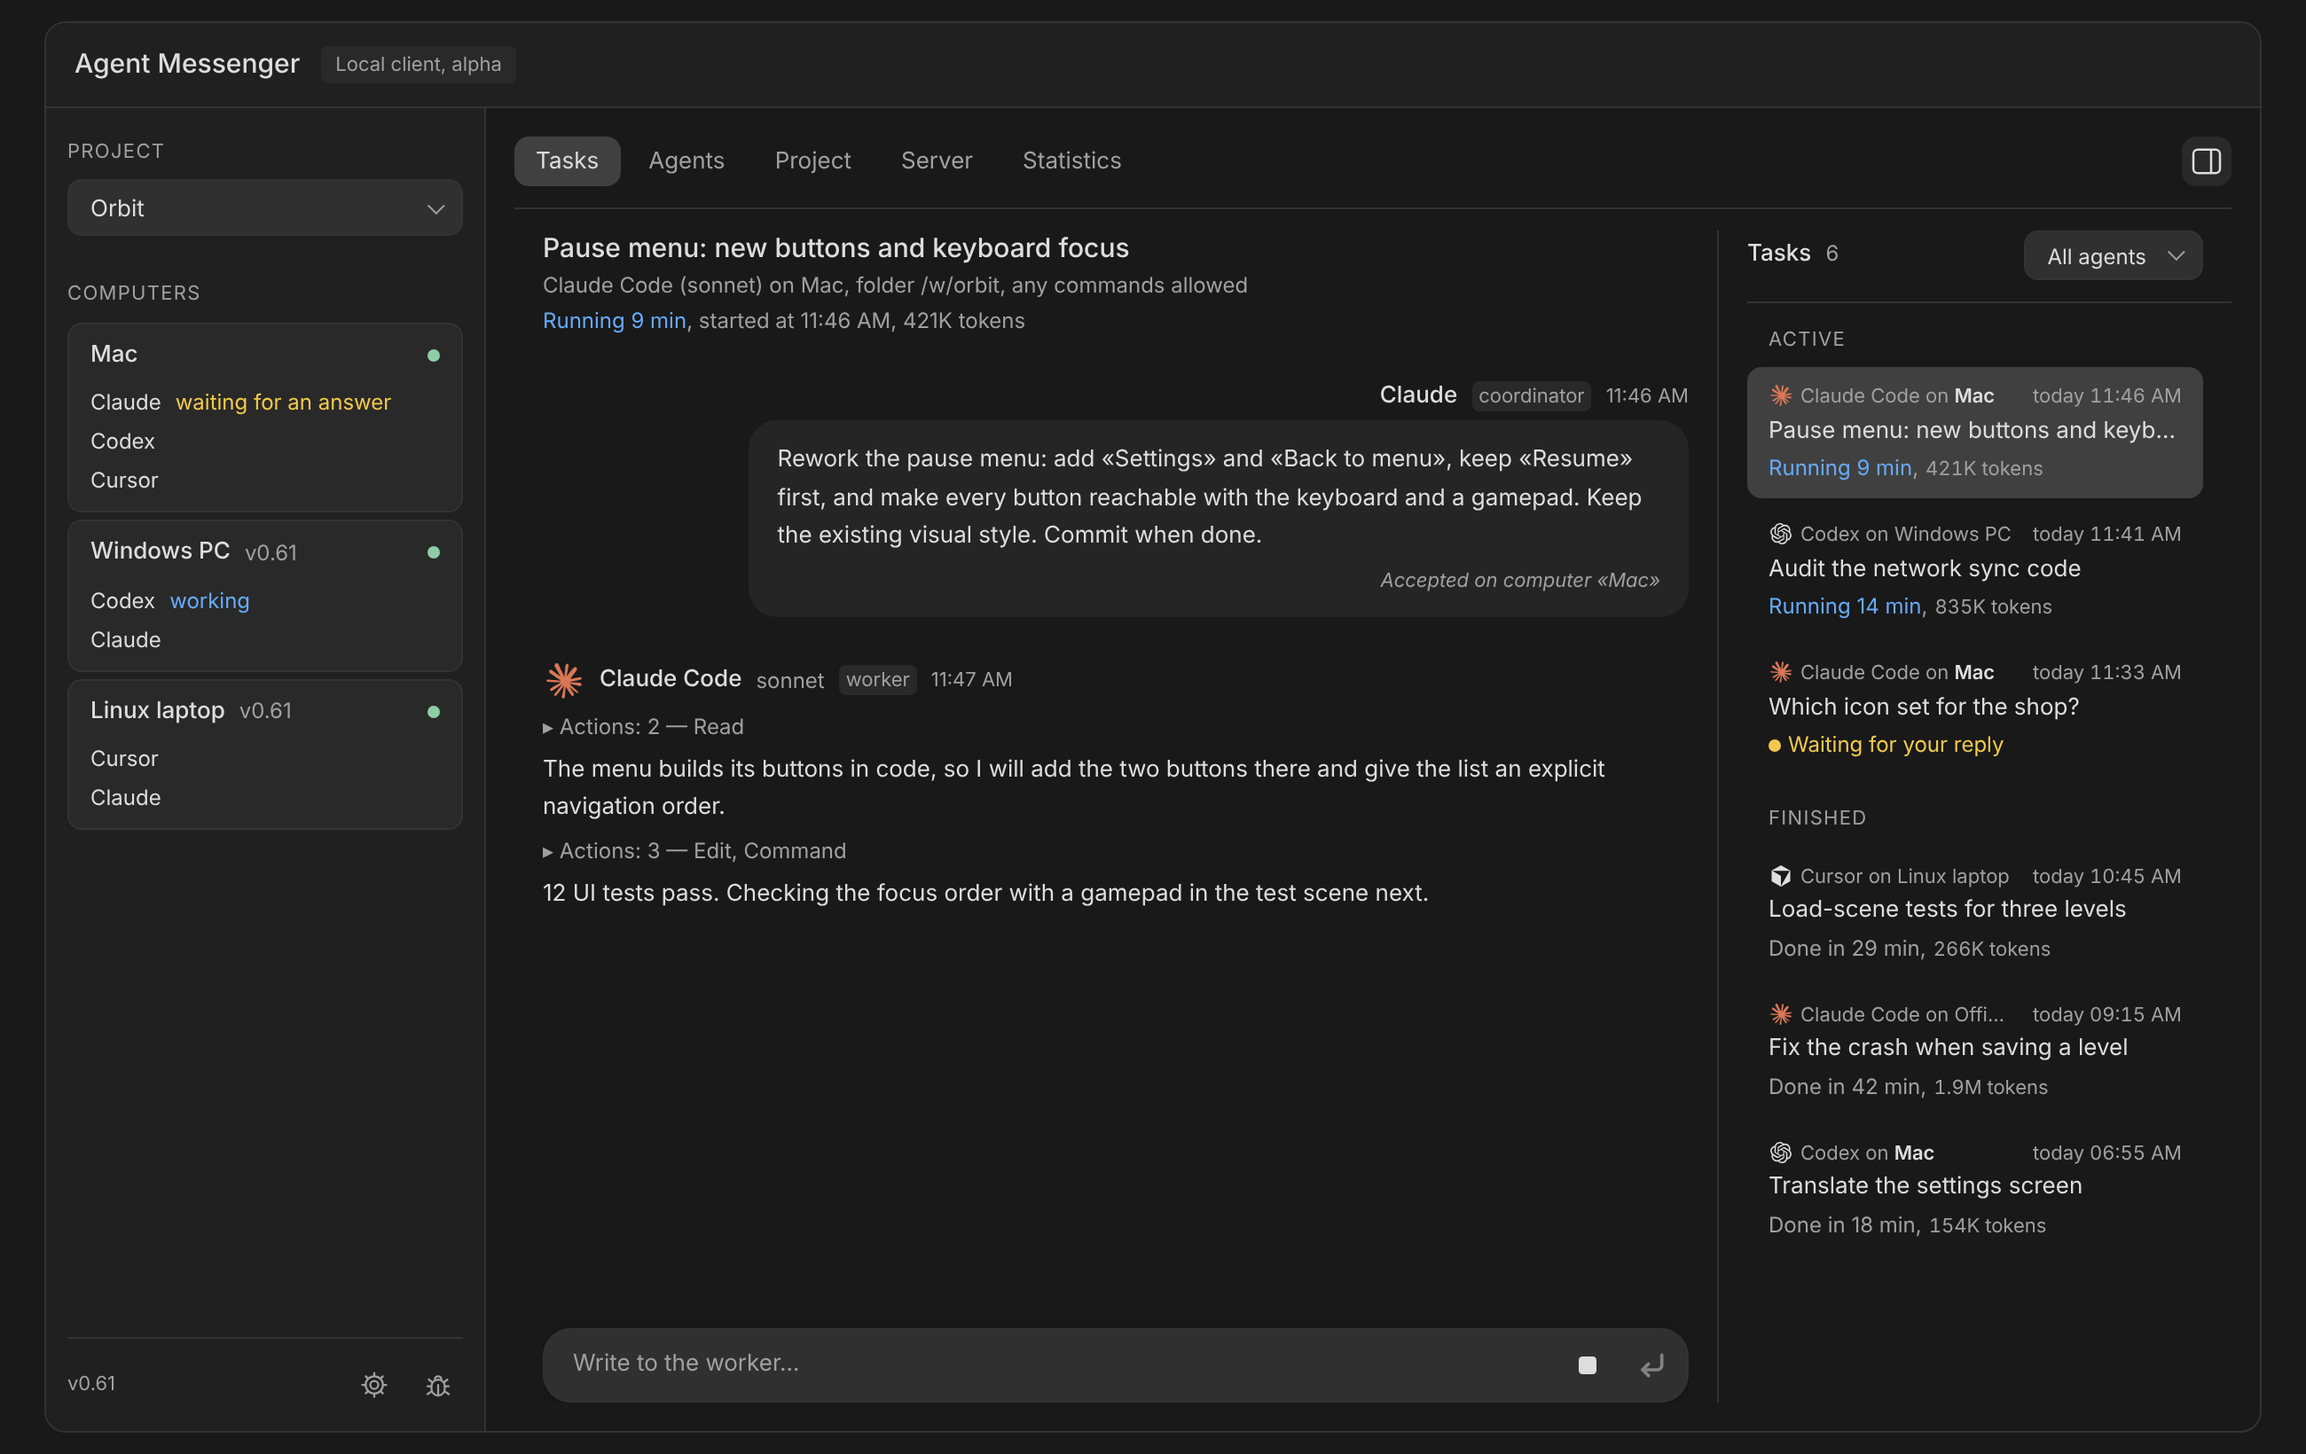
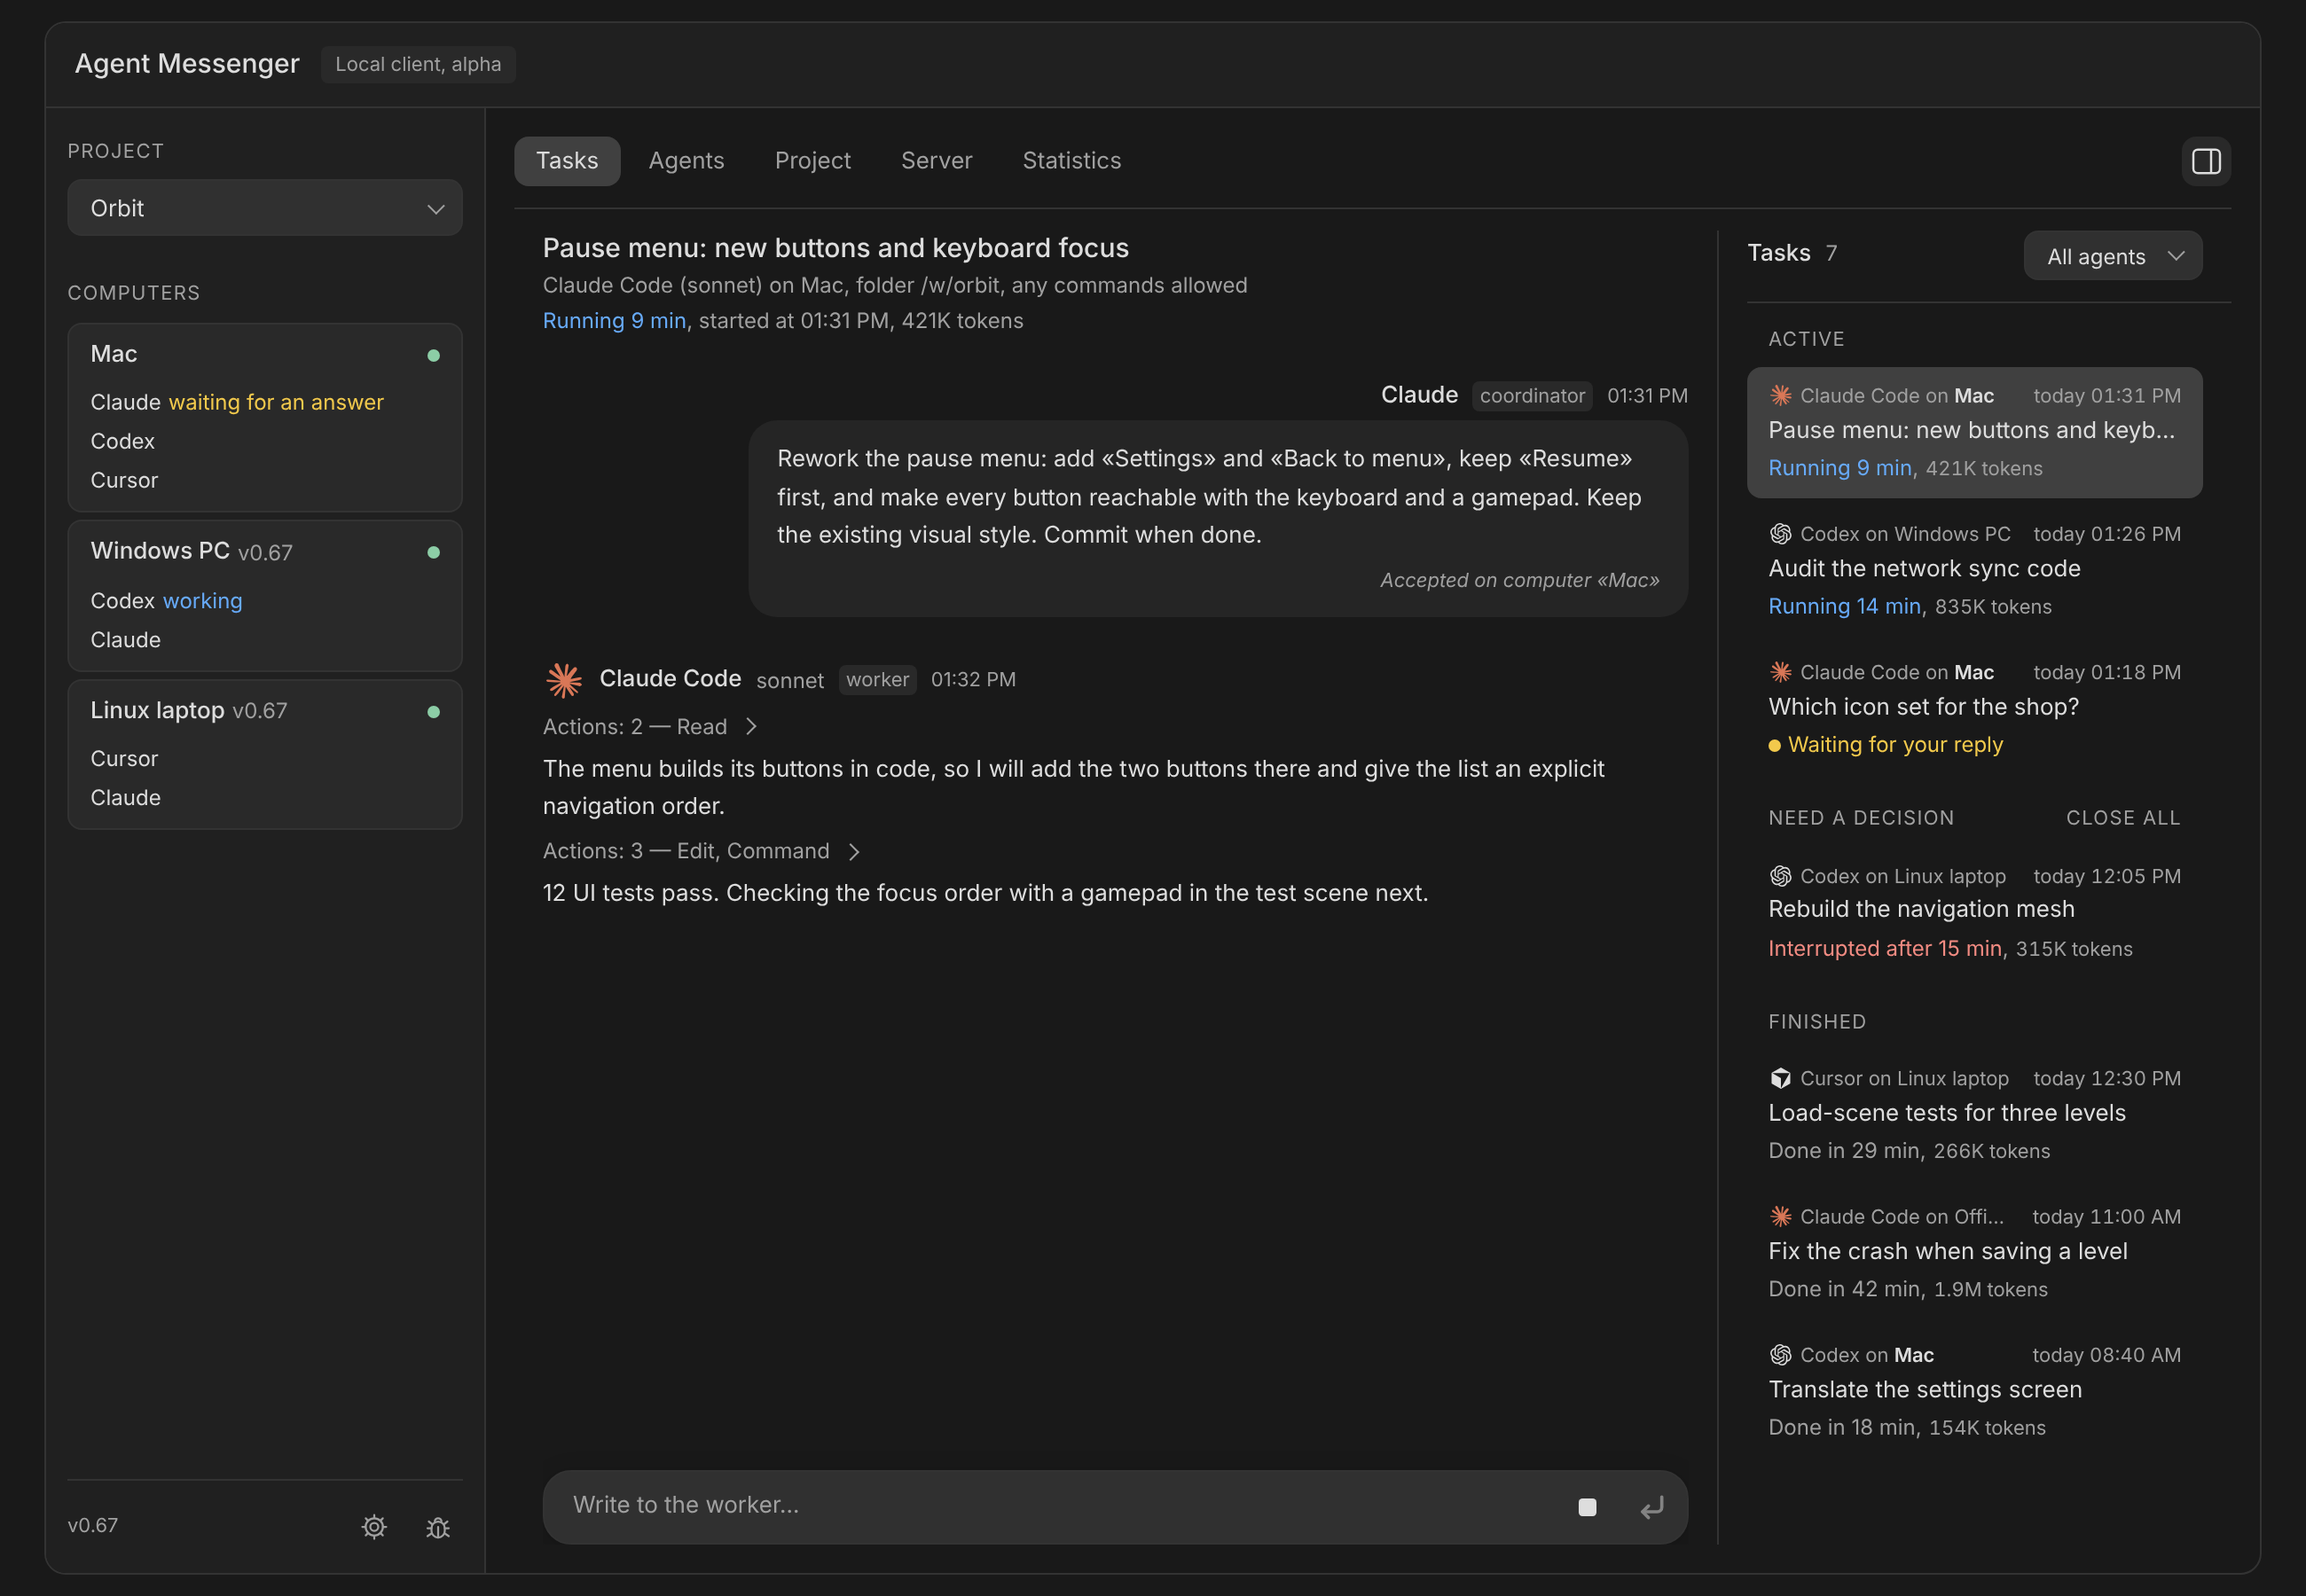
docs: README screenshots and features for 0.67 (WIP)
The window screenshots are retaken with made-up data on the current
window (0.67, with «Требуют решения»). The feature list mentions the
background watch, notes to remote workers and delayed replies; the
status table no longer lists waking the coordinator as missing.

Claude-Session: https://claude.ai/code/session_014S1rtUzdGcVZ1cQoiZnrAj

diff --git a/README.md b/README.md
@@ -25,9 +25,9 @@ One coordinator agent hands tasks to worker agents (Claude Code, Codex, Cursor A
 
 ## What it does
 
-- **Coordinator and workers.** You talk to a coordinator in Claude Code. It starts tasks with `start_task`; each task runs as its own worker session of Claude Code, Codex or Cursor in the project folder, and reports back.
+- **Coordinator and workers.** You talk to a coordinator in Claude Code. It starts tasks with `start_task`; each task runs as its own worker session of Claude Code, Codex or Cursor in the project folder, and reports back. While it is idle, a background watch wakes its chat when a worker reports or asks something; it can also write to a running worker, on any computer.
 - **Several computers.** One computer runs the server, the others join it with a short code. The coordinator sees every computer's agents, their models and limits, and can start a task on any of them. Tasks keep their computer when the server moves to another machine.
-- **One window for everything.** Every task of every computer with its live progress, tokens and time. You answer a worker's question, write to a running worker, stop a task or close a stuck one.
+- **One window for everything.** Every task of every computer with its live progress, tokens and time. You answer a worker's question, write to a running worker, stop a task or close a stuck one. Interrupted tasks and tasks whose computer was lost gather under «Требуют решения»; a computer whose replies are held back says for how long.
 - **Safe by default.** A task is finished only when its worker has visibly ended; an unclear result is never retried on its own. «Любые команды» (any commands without asking) is a switch per computer, off by default.
 - **Statistics and feedback.** Tokens per day, agent and computer. A bug icon records remarks about the app (with a picture); the coordinator records its own and exports them as one file.
 - **Updates from the window.** Signed updates on every platform; a Windows or Linux computer can also be updated from another computer's card.
@@ -50,7 +50,7 @@ A web chat on claude.ai does not see Messenger: the coordinator runs in Claude C
 | Windows and Linux | Used daily; install themselves for the current user, update from the window. Not code-signed: SmartScreen may warn. |
 | Workers | Claude Code, Codex and Cursor. Tests use fake CLIs only; real agents are checked in separate acceptance runs. |
 | Network | Server on any computer of the network, invitations by code, TLS with a pinned certificate. Not meant for the open internet; for remote work use a VPN ([BROKER.md](docs/BROKER.md)). |
-| Not done yet | Pictures from workers in reports, waking the coordinator when a worker asks a question, handing the coordinator role to another agent. |
+| Not done yet | Pictures from workers in reports, handing the coordinator role to another agent, watching from a phone. |
 
 The current state and next tasks are in [HANDOFF.md](docs/HANDOFF.md) and [TASKS.md](docs/TASKS.md); the full map of documents is in [docs/README.md](docs/README.md).
 
